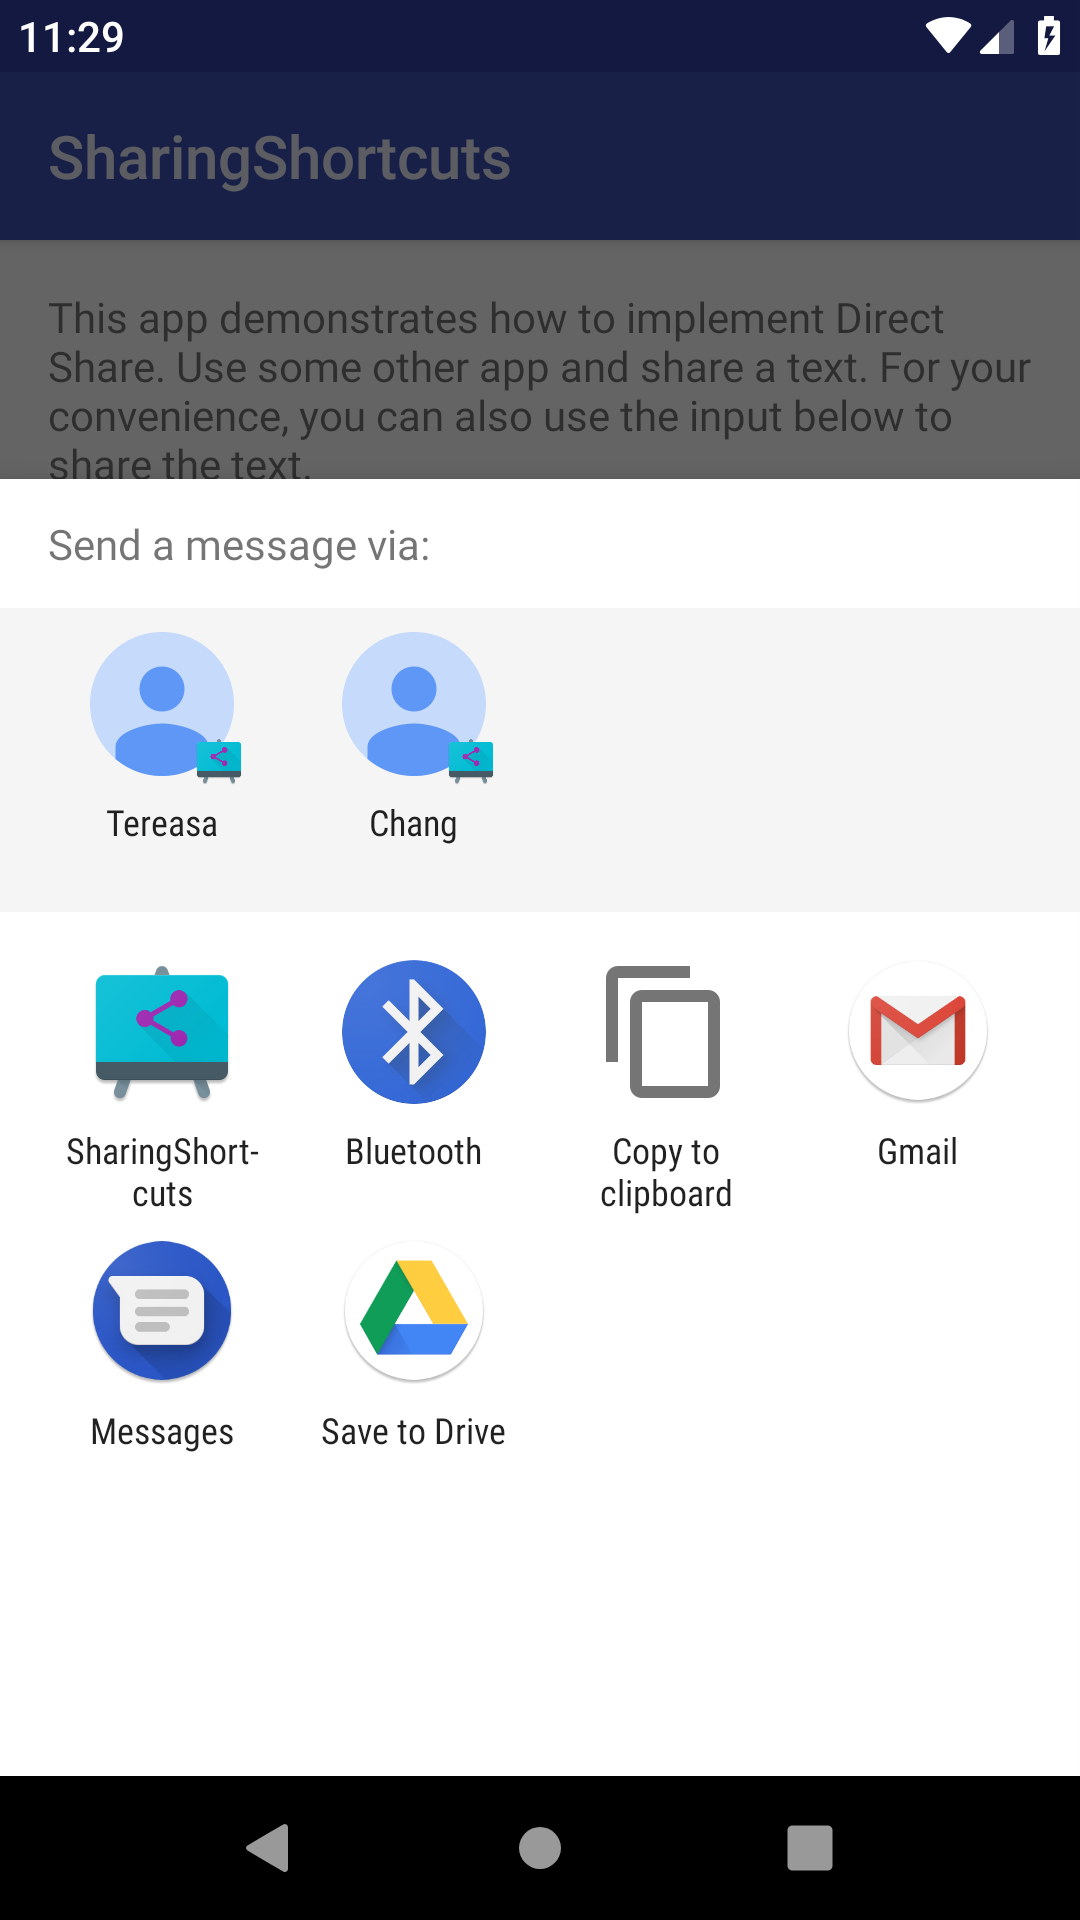
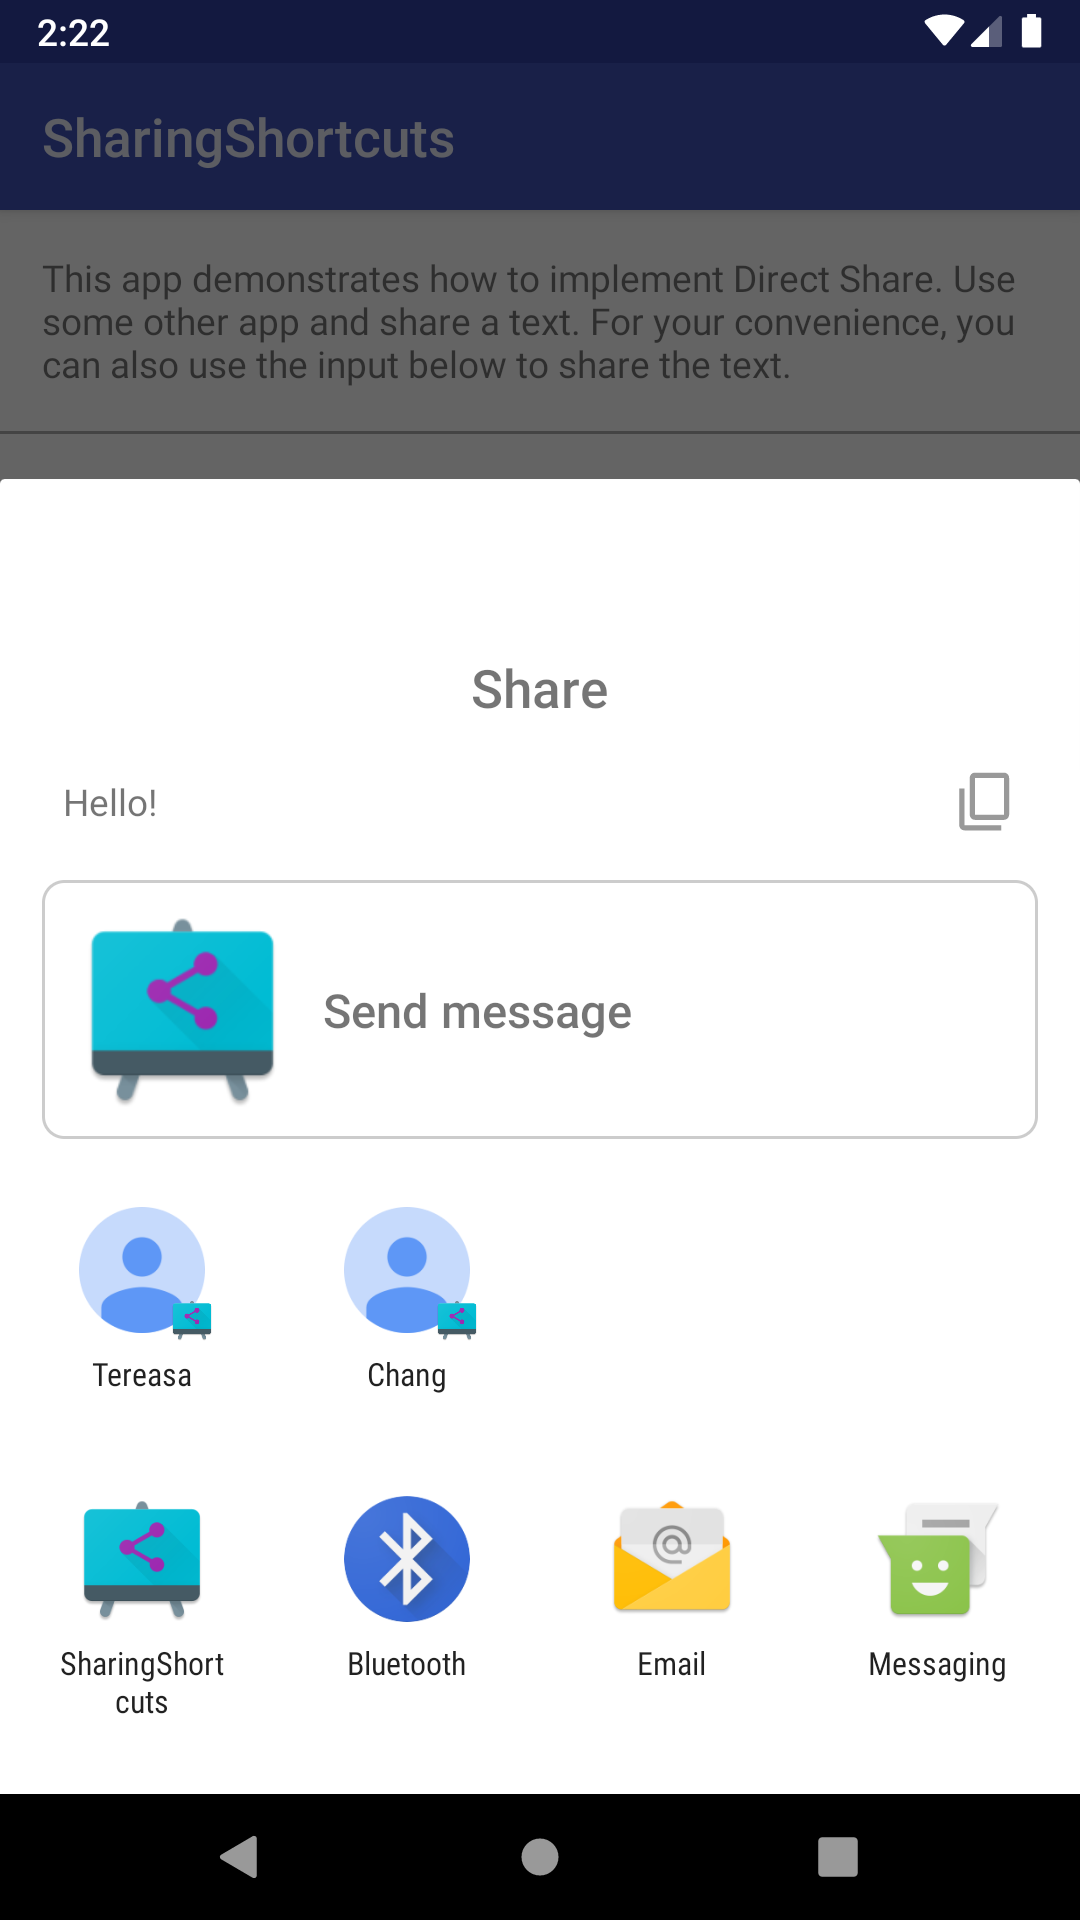
Updates SharingSheet API to Android Q Beta 2.
Test: in Android Q, P and L emulators

diff --git a/content/SharingShortcuts/Application/src/main/java/com/example/android/sharingshortcuts/MainActivity.java b/content/SharingShortcuts/Application/src/main/java/com/example/android/sharingshortcuts/MainActivity.java
@@ -17,16 +17,38 @@
 package com.example.android.sharingshortcuts;
 
 import android.app.Activity;
+import android.content.ClipData;
 import android.content.Intent;
+import android.graphics.Bitmap;
+import android.graphics.BitmapFactory;
+import android.net.Uri;
 import android.os.Bundle;
 import android.view.View;
 import android.widget.EditText;
+
+import androidx.core.content.FileProvider;
+
+import java.io.File;
+import java.io.FileNotFoundException;
+import java.io.FileOutputStream;
+import java.io.IOException;
 
 /**
  * Provides the landing screen of this sample. There is nothing particularly interesting here. All
  * the codes related to the Direct Share feature are in {@link SharingShortcutsManager}.
  */
 public class MainActivity extends Activity {
+
+    // Domain authority for our app FileProvider
+    private static final String FILE_PROVIDER_AUTHORITY =
+            "com.example.android.sharingshortcuts.fileprovider";
+
+    // Cache directory to store images
+    // This is the same path specified in the @xml/file_paths and accessed from the AndroidManifest
+    private static final String IMAGE_CACHE_DIR = "images";
+
+    // Name of the file to use for the thumbnail image
+    private static final String IMAGE_FILE = "image.png";
 
     private EditText mEditBody;
     private SharingShortcutsManager mSharingShortcutsManager;
@@ -60,6 +82,64 @@ public class MainActivity extends Activity {
         Intent sharingIntent = new Intent(android.content.Intent.ACTION_SEND);
         sharingIntent.setType("text/plain");
         sharingIntent.putExtra(android.content.Intent.EXTRA_TEXT, mEditBody.getText().toString());
-        startActivity(Intent.createChooser(sharingIntent, getString(R.string.send_intent_title)));
+        // (Optional) If you want a preview title, set it with Intent.EXTRA_TITLE
+        sharingIntent.putExtra(Intent.EXTRA_TITLE, getString(R.string.send_intent_title));
+
+        // (Optional) if you want a preview thumbnail, create a content URI and add it
+        // The system only supports content URIs
+        ClipData thumbnail = getClipDataThumbnail();
+        if (thumbnail != null) {
+            sharingIntent.setClipData(thumbnail);
+            sharingIntent.setFlags(Intent.FLAG_GRANT_READ_URI_PERMISSION);
+        }
+
+        startActivity(Intent.createChooser(sharingIntent, null));
+    }
+
+    /**
+     * Get ClipData thumbnail object that needs to be passed in the Intent.
+     * It stores the launcher icon in the cache and retrieves in a content URI.
+     * The ClipData object is created with the URI we get from the FileProvider.
+     * <p>
+     * For this to work, you need to configure a FileProvider in the project. We added it to the
+     * AndroidManifest.xml file where we can configure it. We added the images path where we
+     * save the image to the @xml/file_paths file which tells the FileProvider where we intend to
+     * request content URIs.
+     *
+     * @return thumbnail ClipData object to set in the sharing Intent.
+     */
+    private ClipData getClipDataThumbnail() {
+        try {
+            Uri contentUri = saveImageThumbnail();
+            return ClipData.newUri(getContentResolver(), null, contentUri);
+        } catch (FileNotFoundException e) {
+            e.printStackTrace();
+            return null;
+        } catch (IOException e) {
+            e.printStackTrace();
+            return null;
+        }
+    }
+
+    /**
+     * Save our Launcher image to the cache and return it as a content URI.
+     *
+     * IMPORTANT: This could trigger StrictMode. Do not do this in your app.
+     * For the simplicity of the code sample, this is running on the Main thread
+     * but these tasks should be done in a background thread.
+     *
+     * @throws IOException if image couldn't be saved to the cache.
+     * @return image content Uri
+     */
+    private Uri saveImageThumbnail() throws IOException {
+        Bitmap bm = BitmapFactory.decodeResource(getResources(), R.mipmap.ic_launcher);
+        File cachePath = new File(getCacheDir(), IMAGE_CACHE_DIR);
+        cachePath.mkdirs();
+        FileOutputStream stream = new FileOutputStream(cachePath + "/" + IMAGE_FILE);
+        bm.compress(Bitmap.CompressFormat.PNG, 100, stream);
+        stream.close();
+        File imagePath = new File(getCacheDir(), IMAGE_CACHE_DIR);
+        File newFile = new File(imagePath, IMAGE_FILE);
+        return FileProvider.getUriForFile(this, FILE_PROVIDER_AUTHORITY, newFile);
     }
 }
